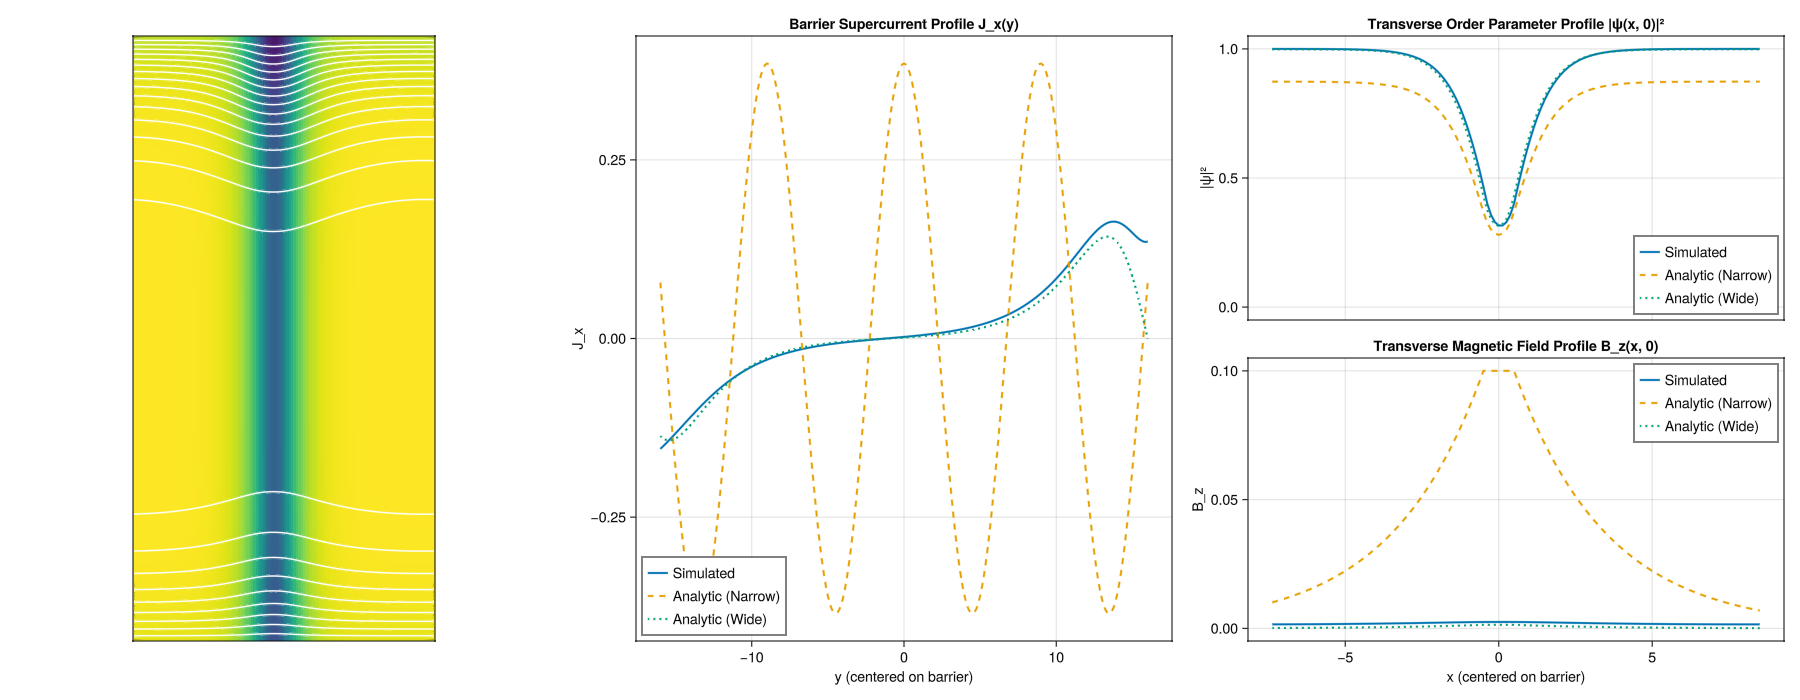
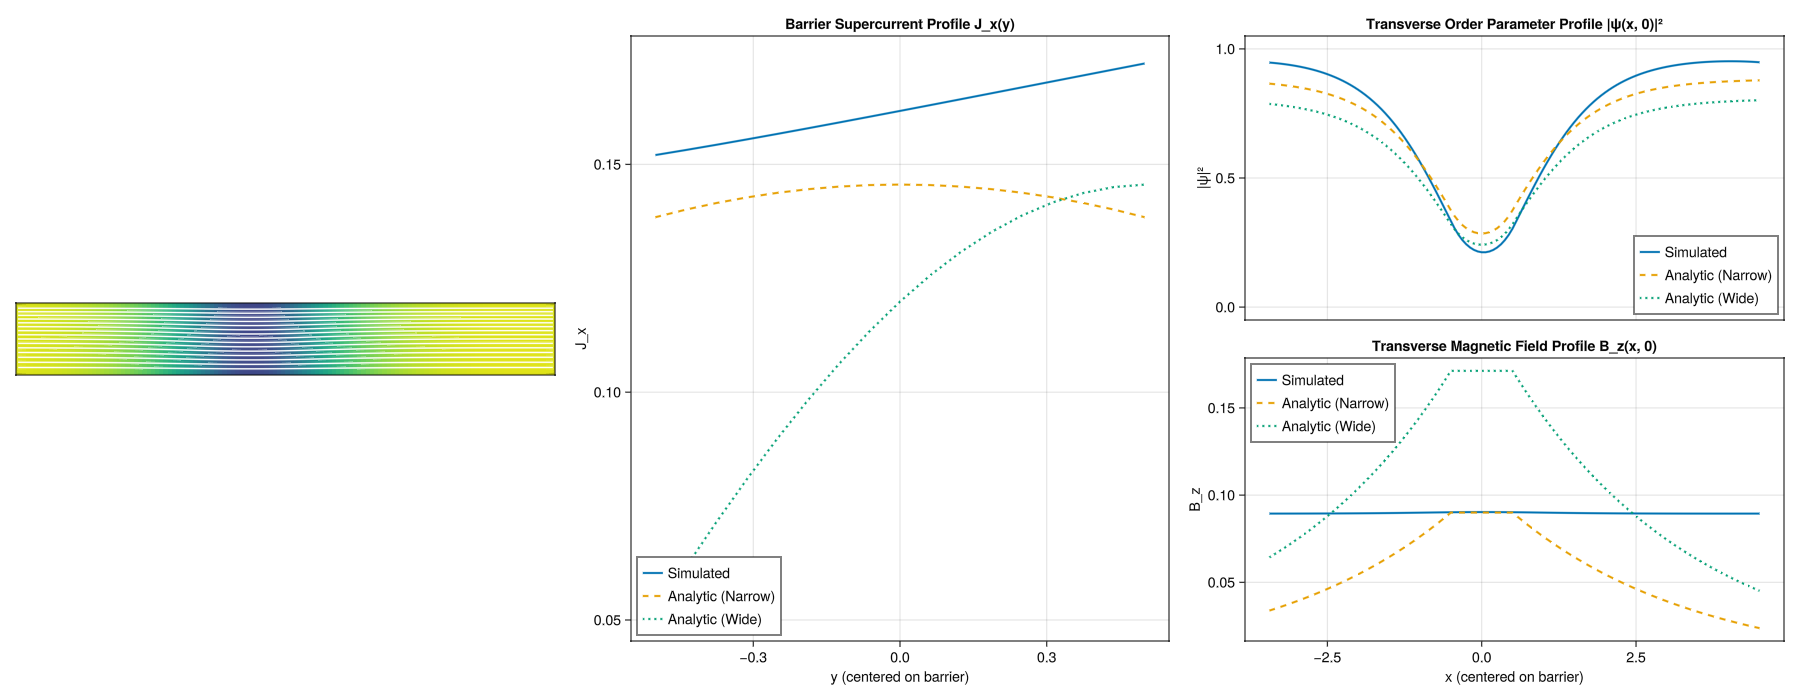
fix Jc in wide junction analytic solution to linear approximation instead of using Jc from TDGL simulations

diff --git a/josephson_junction_equations.md b/josephson_junction_equations.md
@@ -284,7 +284,7 @@ $$
 \frac{\partial\Delta\phi_-}{\partial y} = -\frac{2}{\lambda_J}\sin\frac{\Delta\phi_-(y)}{2} .
 $$
 
-Matching $\partial_y\Delta\phi = \frac{2\pi d}{\phi_0}B_z$ at the two boundaries $y = \pm w/2$ (using $\frac{2\pi d}{\phi_0}B_0 = \frac{2}{\lambda_J}$) fixes the edge phase values $\phi_\pm = \Delta\phi_\pm(\pm w/2)$ in terms of the edge fields $B(\pm w/2) = B_{\mathrm{app}} \pm \frac{\mu_0 J w}{2}$:
+Matching $\partial_y\Delta\phi = \frac{2\pi d}{\phi_0}B_z$ at the two boundaries $y = \pm w/2$ (using $\frac{2\pi d}{\phi_0}B_0 = \frac{2}{\lambda_J}$) fixes the edge phase values $\phi_\pm = \Delta\phi_\pm(\pm w/2)$ in terms of the edge fields $B(\pm w/2) = B_{\mathrm{app}} \pm \frac{\mu_0 J w}{2}$. Evaluated at the wide-junction low-field linear critical current $J = J_c = \max\!\left(0,\,\frac{2}{w\mu_0}(B_0 - |B_{\mathrm{app}}|)\right)$, the more heavily loaded edge reaches $\pm B_0$ while the opposite edge stays within $\pm B_0$:
 
 $$
 \sin\frac{\phi_+}{2} = \frac{B(+w/2)}{B_0},
